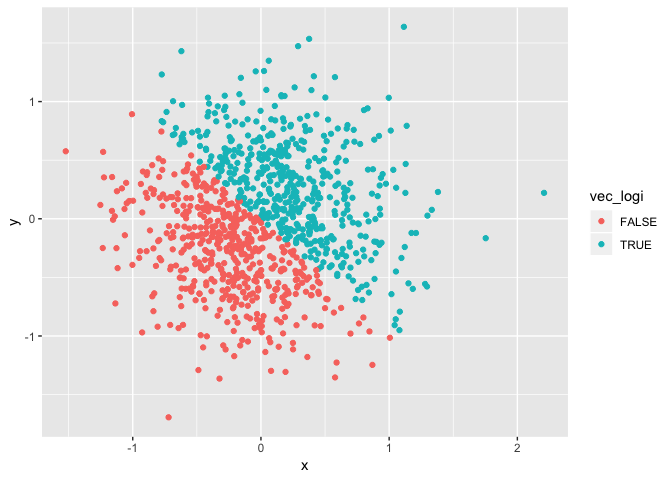
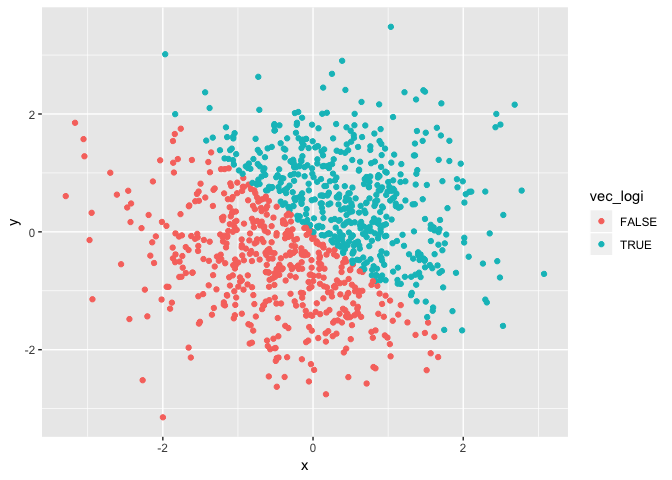
Add answers to the questions

diff --git a/p8105_hw1_ym2715.md b/p8105_hw1_ym2715.md
@@ -8,13 +8,58 @@ Problem 1
 
 ``` r
 ## Set up the data frame for problem 1
-prob1_df = tibble(
-  unif_sample = runif(10, min =0, max = 5),
-  logi_sample = unif_sample > 2,
-  chara_sample = as.character(logi_sample),
+
+  unif_sample = runif(10, min =0, max = 5)
+
+  logi_sample = unif_sample > 2
+  
+  chara_sample = as.character(logi_sample)
+  
   factor_sample = factor(chara_sample)
-)
+
+  prob1_df = data.frame(unif_sample, logi_sample, chara_sample, factor_sample)
+  
+kable(prob1_df, caption = "Data Frame for Problem 1")
 ```
+
+|  unif\_sample| logi\_sample | chara\_sample | factor\_sample |
+|-------------:|:-------------|:--------------|:---------------|
+|      2.083042| TRUE         | TRUE          | TRUE           |
+|      2.293945| TRUE         | TRUE          | TRUE           |
+|      3.173244| TRUE         | TRUE          | TRUE           |
+|      2.702320| TRUE         | TRUE          | TRUE           |
+|      2.838958| TRUE         | TRUE          | TRUE           |
+|      3.626901| TRUE         | TRUE          | TRUE           |
+|      3.570303| TRUE         | TRUE          | TRUE           |
+|      2.782327| TRUE         | TRUE          | TRUE           |
+|      1.790758| FALSE        | FALSE         | FALSE          |
+|      4.568924| TRUE         | TRUE          | TRUE           |
+
+The mean works for the first two columns of the data frame, and dosen't work for the character vector and factor vector. This is because we can only calculate mean for numeric or logical variable.
+
+``` r
+## Convert variable to numeric
+logi_sample_to_num = as.numeric(logi_sample)  
+chara_sample_to_num = as.numeric(chara_sample)  
+```
+
+    ## Warning: NAs introduced by coercion
+
+``` r
+factor_sample_to_num = as.numeric(factor_sample)  
+```
+
+After the conversion, the TRUE/FALSE in logical variable is converted to 1/0, and the TRUE/FALSE in factor variable is converted to 2/1, character variable is not applicable for this conversion.
+
+``` r
+## Two-step conversion
+character_to_factor_to_numeric = as.numeric(as.factor(chara_sample))
+factor_to_character_to_numeric = as.numeric(as.character(factor_sample))
+```
+
+    ## Warning: NAs introduced by coercion
+
+Obviously, the character\_to\_factor\_to\_numeric conversion is successful, the TRUE/FALSE are converted to 2/1. However, the factor\_to\_character\_to\_numeric conversion failed because character cannot be converted to numeric variable.
 
 Problem 2
 =========
@@ -22,31 +67,35 @@ Problem 2
 ``` r
 ## Set up the data fraame for problem 2
 prob2_df = tibble(
-  x = rnorm(1000, sd = .5),
-  y = rnorm(1000, sd = .5),    
+  x = rnorm(1000, mean = 0, sd = 1),
+  y = rnorm(1000, mean = 0, sd = 1),    
   vec_logi = x+y > 0,
   vec_num = as.numeric(vec_logi),
   vec_factor = as.factor(vec_logi)
 )
 ```
 
+The size of this dataset is 1000 rows by 2 columns.
+The mean and median of x are both 0.
+50.3% of cases for which the logical vector is TRUE.
+
 ``` r
 ## Scatter plot of x and y, color using logical vector
 ggplot(prob2_df, aes(x = x, y = y, color = vec_logi)) + geom_point()
 ```
 
-![](p8105_hw1_ym2715_files/figure-markdown_github/unnamed-chunk-4-1.png)
+![](p8105_hw1_ym2715_files/figure-markdown_github/unnamed-chunk-6-1.png)
 
 ``` r
 ## Scatter plot of x and y, color using numerical vector
 ggplot(prob2_df, aes(x = x, y = y, color = vec_num)) + geom_point()
 ```
 
-![](p8105_hw1_ym2715_files/figure-markdown_github/unnamed-chunk-4-2.png)
+![](p8105_hw1_ym2715_files/figure-markdown_github/unnamed-chunk-6-2.png)
 
 ``` r
 ## Scatter plot of x and y, color using factor vector
 ggplot(prob2_df, aes(x = x, y = y, color = vec_factor)) + geom_point()
 ```
 
-![](p8105_hw1_ym2715_files/figure-markdown_github/unnamed-chunk-4-3.png)
+![](p8105_hw1_ym2715_files/figure-markdown_github/unnamed-chunk-6-3.png)
